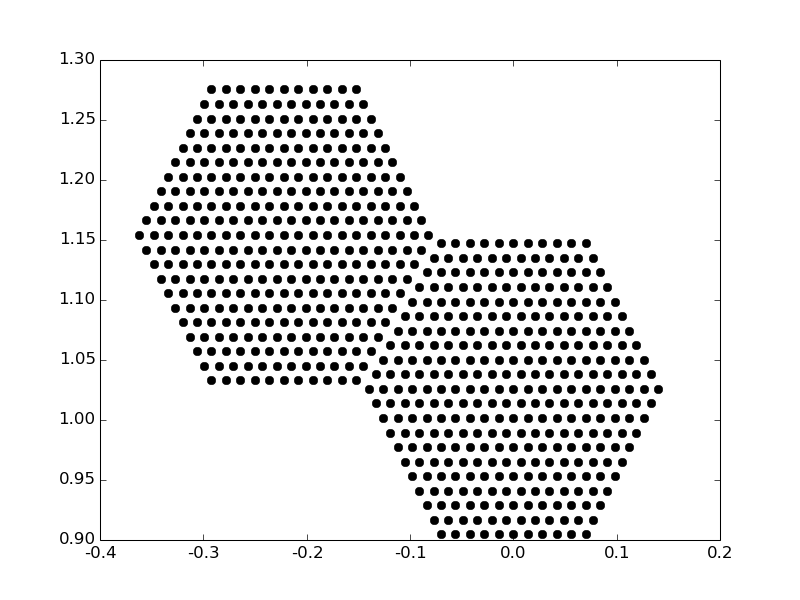
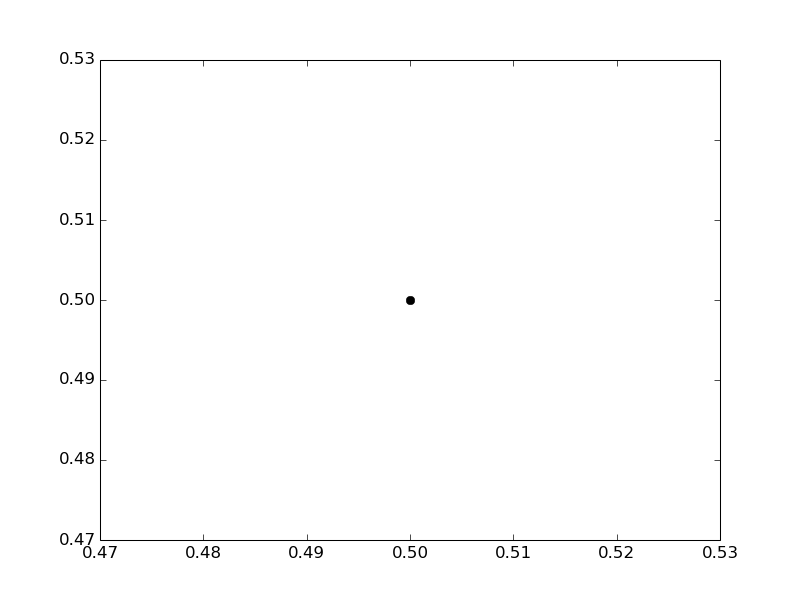
Add photon distribution for single capillary
- realistic shape and radius (0.002 mm)

diff --git a/main.py b/main.py
@@ -32,9 +32,8 @@ def create_lens():
     lens = lp.PolyCapillaryLens(y_settings=y_settings,\
                                 D_settings=D_settings,\
                                 material=mGold)
-    structure = st.PartialHexStructure(rIn = 0.002,\
-                                nx_capillary = 21,\
-                                ny_bundle = 21)
+    structure = st.Singular(0.002, 0.5, 0.5)
+
     # Save structure
     structure.plot('plots/structure')
     lens.set_structure(structure)
@@ -51,11 +50,11 @@ def create_beam(dirname):
     setup = fl.MultipleCapillariesFittedSource()
     setup.set_capillaries(caps)
     # Number of photons per run per capillary
-    setup.set_nrays(1000)
+    setup.set_nrays(10000)
     # Number of avaiable cores
     setup.set_processes(8)
     # Number of runs
-    setup.set_repeats(64)
+    setup.set_repeats(16*128)
     # Photon storage dirctory
     setup.set_folder(dirname)
 
@@ -127,29 +126,5 @@ if __name__ == '__main__':
     """ python main.py """
 
     # Choose path for storage
-    directory = 'part_lens_gold_thinner'
-    # create_beam(directory)
-
-    # Load beam
-    print 'Loading beam, please wait'
-    beam = ub.load_beam(directory)
-
-    # Move to the focal spot
-    ub.move_beam_to(beam, 155)
-
-    # Create after-pinhole pictures for several radiuses
-    radii = [0.001 + 0.001 * it for it in range(11)]
-
-    for r in radii:
-        print 'Current pinhole radius: {}'.format(r)
-        ceam = uc.cut_circle(beam, radius = r)
-        cp = up.BeamPlotter(ceam)
-
-        # This has to be set by hand because some erroneus photons can get
-        # far outisde the part of screen we want to see (~0.1% of photons)
-        cp.set_limits([-0.1, 0.21], [0.45, 0.74])
-
-        savename = "plots/pinhole_radius/radius_{}.png".format(r)
-        cp.set_save_name(savename)
-        cp.show(170)
-
+    directory = 'single_cap_lens'
+    create_beam(directory)

diff --git a/elements/structures.py b/elements/structures.py
@@ -39,6 +39,17 @@ class LensStructure(object):
             plt.savefig(savePath)
         plt.show()
 
+class Singular(LensStructure):
+    """ Single capillary shape as within a lens structure """
+    def __init__(self, rin, xin, zin):
+	""" Cnstruct """
+	# Init parent
+	LensStructure.__init__(self, rIn = rin)
+
+	self.xci = [xin]
+	self.yci = [zin]
+
+
 class HexStructure(LensStructure):
     """ Most realistic pollycapilary structure """
     def __init__(self,\
@@ -171,7 +182,7 @@ class PartialHexStructure(HexStructure):
     def __init__(self, rIn = 0.1, nx_capillary = 3, ny_bundle = 7):
         """ Constructor """
         # Define bundles you want to keep
-        self.keep_us = range(1005,1006) + range(1045, 1046)
+        self.keep_us = range(1005,1006)
         # Init parent
         wall = 0.005
         HexStructure.__init__(self, rIn, wall, nx_capillary, ny_bundle)
